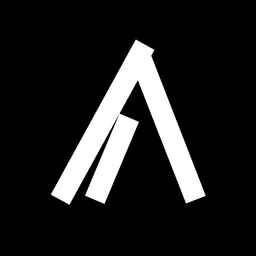
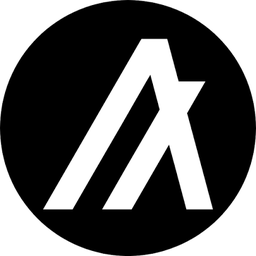
tokens: use the official Algorand mark
Replaces the one I drew. The real glyph is the angular Algorand "A" with the
horizontal top-right bar, not the plain triangular A I approximated — close
enough to look deliberate and wrong enough to notice, which is the worst place
for a brand mark to land.

Source: Media/Algorand logo.png, resized 447 -> 256 RGBA to match the other
token icons. Previewed through the rounded-full crop the chip applies: the
glyph clears the circle edge with margin, and the white corners of the source
are cut away by that crop.

diff --git a/web/src/components/magnetfi/v2/shared.tsx b/web/src/components/magnetfi/v2/shared.tsx
@@ -8,9 +8,6 @@ import Image from "next/image";
 const TOKEN_ICONS: Record<string, string> = {
   U: "/tokens/u.png",
   MUSD: "/musd-icon.png",
-  // Drawn in-house to Algorand's mark, not an official asset — swap in the
-  // real one if it ever lands. Sized to clear the rounded-full crop: an
-  // earlier pass had the feet of the "A" clipped by the circle edge.
   ALGO: "/tokens/algo.png",
   TALGO: "/tokens/talgo.png",
   USDC: "/tokens/usdc.png",
